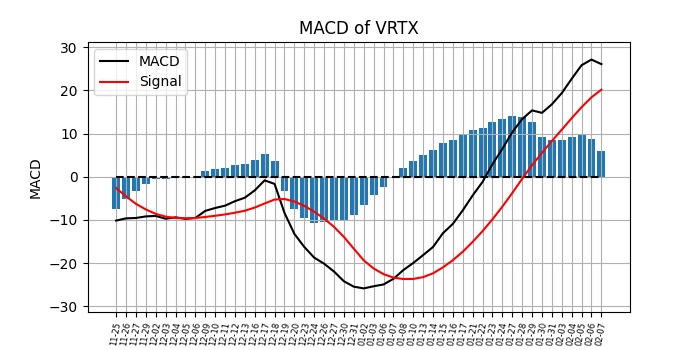
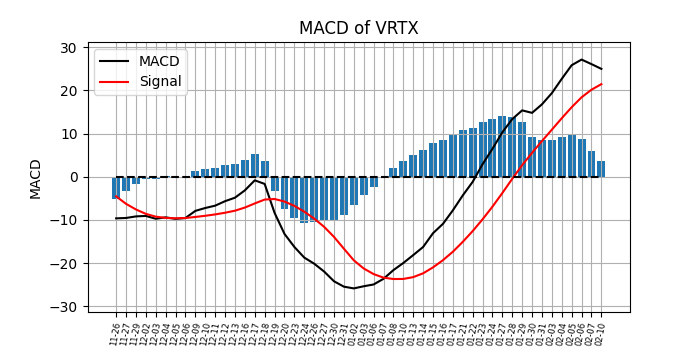
commit for 2025-02-10

diff --git a/_posts/2025-02-10-AMD.md b/_posts/2025-02-10-AMD.md
@@ -2,7 +2,7 @@
 layout: post
 title: "AMD"
 company: Advanced Micro Devices Inc.
-date: 2025-02-07 -0500
+date: 2025-02-10 -0500
 categories: tech
 ---
 

diff --git a/_posts/2025-02-10-VRTX.md b/_posts/2025-02-10-VRTX.md
@@ -2,7 +2,7 @@
 layout: post
 title: "VRTX"
 company: Vertex Pharma Inc.
-date: 2025-02-07 -0500
+date: 2025-02-10 -0500
 categories: biotech
 ---
 

diff --git a/_posts/2025-02-10-W.md b/_posts/2025-02-10-W.md
@@ -2,7 +2,7 @@
 layout: post
 title: "W"
 company: Wayfair Inc.
-date: 2025-02-07 -0500
+date: 2025-02-10 -0500
 categories: internet retail
 ---
 

diff --git a/_posts/2025-02-10-LYFT.md b/_posts/2025-02-10-LYFT.md
@@ -2,7 +2,7 @@
 layout: post
 title: "LYFT"
 company: Lyft Inc.
-date: 2025-02-07 -0500
+date: 2025-02-10 -0500
 categories: consumer
 ---
 
